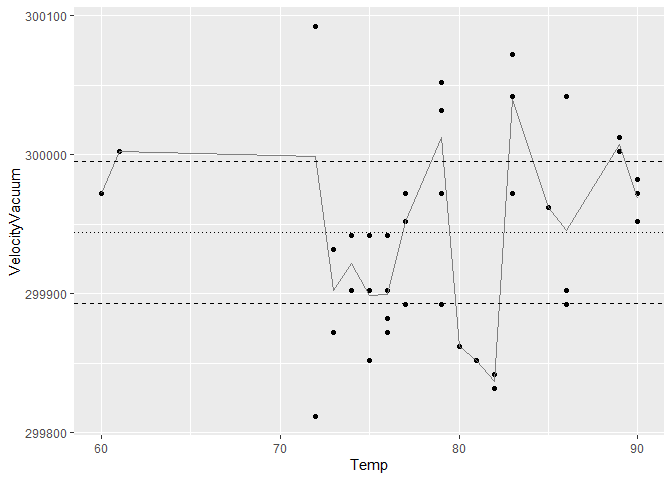
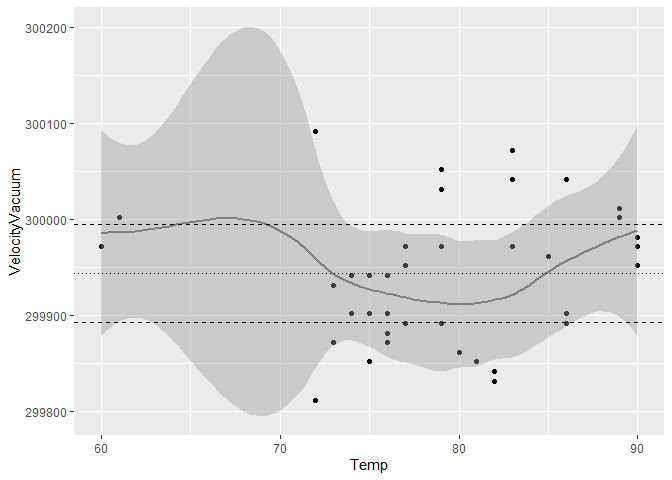
Assignment 2 Resubmission

diff --git a/challenges/c02-michelson-assignment.md b/challenges/c02-michelson-assignment.md
@@ -262,14 +262,20 @@ LIGHTSPEED_PM * 2
 
     ## [1] 102
 
-**Observations**: - Is Michelson’s estimate of the error (his
-uncertainty) greater or less than the true error? - Michelson’s error
-estimate is less than the true error. - Make a quantitative comparison
-between Michelson’s uncertainty and his error. - The true error was
-151.542 km/s. Michelson’s uncertainty causes him to give an error
-estimate of +/- 56, with a full range of 102 km/s. This mean that
-Michelson’s uncertainty wasn’t able to capture the true value of the
-uncertainty.
+**Observations**:
+
+- Is Michelson’s estimate of the error (his uncertainty) greater or less
+  than the true error?
+
+  - Michelson’s error estimate is less than the true error.
+
+- Make a quantitative comparison between Michelson’s uncertainty and his
+  error.
+
+  - The true error was 151.542 km/s. Michelson’s uncertainty caused him
+    to give an error estimate of +/—56, with a full range of 102 km/s.
+    This means that Michelson’s uncertainty wasn’t able to capture the
+    value of the true error.
 
 The following plot shows all of Michelson’s data as a [control
 chart](https://en.wikipedia.org/wiki/Control_chart); this sort of plot
@@ -346,15 +352,21 @@ df_q2 %>%
 
 ![](c02-michelson-assignment_files/figure-gfm/q4-cf-real-simulated-1.png)<!-- -->
 
-**Observations**: Similarities - The general trend is replicated
-similarly in the simulated model, where the mean of greater measurements
-were measured on similar dates. Overall, both simulated and real control
-graphs were shown to be within the bounds set by Michelson’s error
-estimate. Differences - I noticed that in the real data, there were more
-outliers that went outside of the error estimates, which leads me to
-wonder why the error estimate wasn’t bigger to account for the outliers.
-The simulated model had means that were mostly contained within the
-error measurements.
+**Observations**:
+
+Similarities - The general trend is replicated similarly in the
+simulated model, where the mean of greater measurements was measured on
+similar dates. In both simulation and real control graphs, there are
+sections in the mean trend line that exceed Michelson’s error estimate,
+with the real control graph having the mean trend line exceed the limits
+during the period of early June whereas the simulated mean trendline
+exceeding Mechelson’s error estimate around late June.
+
+Differences - I noticed that in the real data, there were more outliers
+that went outside of the error estimates, which leads me to wonder why
+the error estimate wasn’t bigger to account for the outliers. The
+simulated model had means that were mostly contained within the error
+measurements.
 
 ### **q5** You have access to a few other variables. Construct a **at least three** visualizations of `VelocityVacuum` against these other factors. Are there other patterns in the data that might help explain the difference between Michelson’s estimate and `LIGHTSPEED_VACUUM`?
 
@@ -415,7 +427,7 @@ df_q2 %>%
     )
   ) +
   geom_point() +
-  geom_line(
+  geom_smooth(
     data = . %>%
       group_by(Temp) %>%
       summarize(velocity_mean = mean(VelocityVacuum)),
@@ -436,6 +448,8 @@ df_q2 %>%
   )
 ```
 
+    ## `geom_smooth()` using method = 'loess' and formula = 'y ~ x'
+
 ![](c02-michelson-assignment_files/figure-gfm/unnamed-chunk-2-3.png)<!-- -->
 
 ``` r
@@ -448,7 +462,7 @@ df_q2 %>%
     )
   ) +
   geom_point() +
-  geom_line(
+  geom_smooth(
     data = . %>%
       group_by(Date) %>%
       summarize(velocity_mean = mean(VelocityVacuum)),
@@ -468,6 +482,8 @@ df_q2 %>%
     linetype = "dashed"
   )
 ```
+
+    ## `geom_smooth()` using method = 'loess' and formula = 'y ~ x'
 
 ![](c02-michelson-assignment_files/figure-gfm/unnamed-chunk-2-4.png)<!-- -->
 
